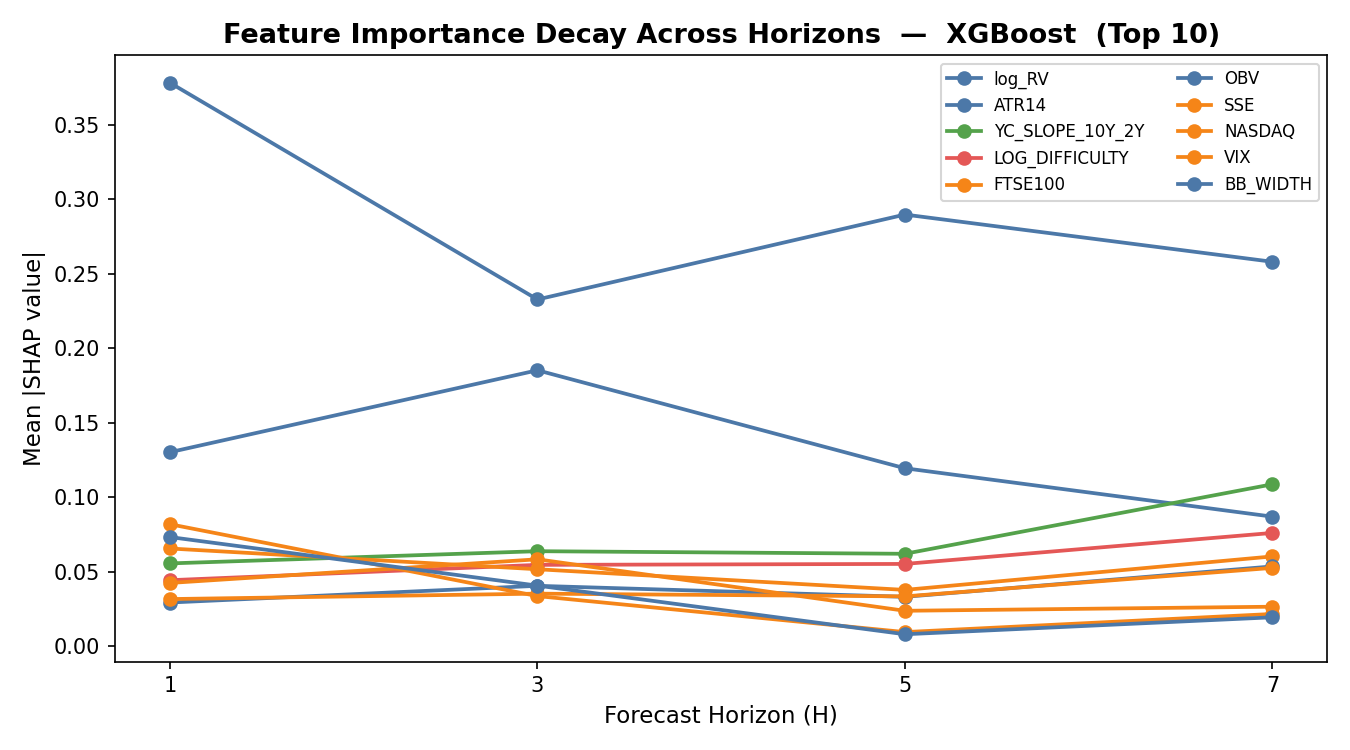
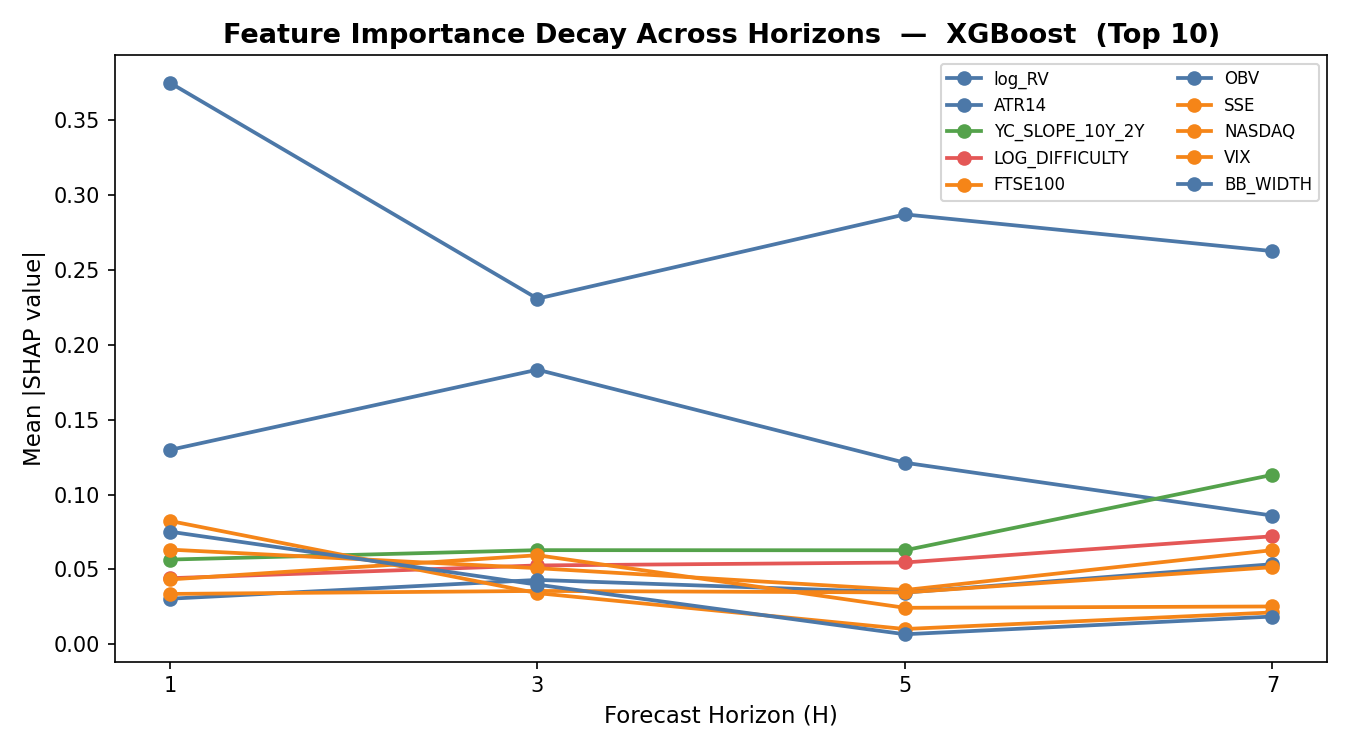
Quick rerun xgb_shap_analysis.py with n_shap_step = 7

diff --git a/model feature importance/xgb_shap_analysis.py b/model feature importance/xgb_shap_analysis.py
@@ -24,7 +24,7 @@ EVAL_START_DATE = pd.to_datetime("2024-06-29")
 # We refit every 7 days during rolling eval — here we sample every N_SHAP_STEP
 # refit points to keep compute tractable while still capturing how feature
 # importance evolves over the OOS period.
-N_SHAP_STEP = 1   # every 1st refit ≈ every 7 days → ~156 windows across OOS period
+N_SHAP_STEP = 7   
 SEED        = 42
 
 # -----------------------------------------------------------------------
